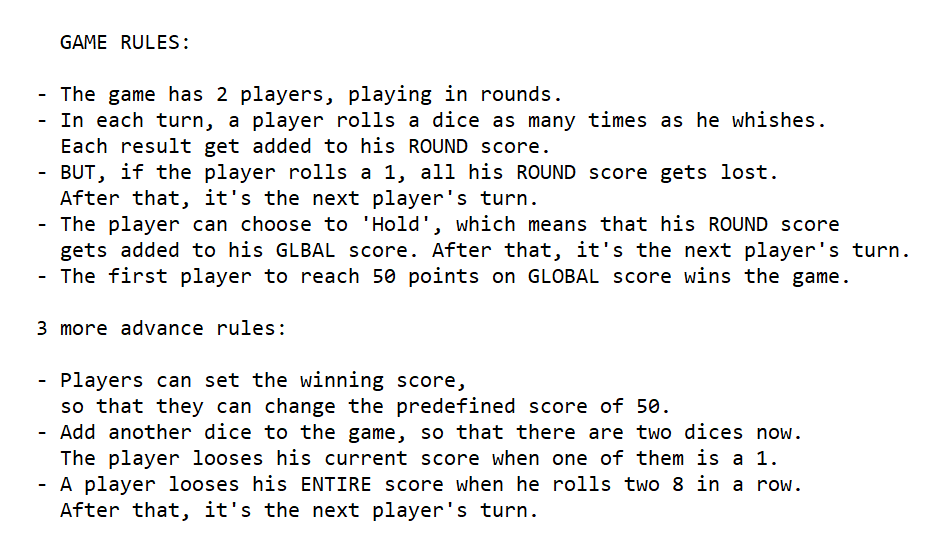
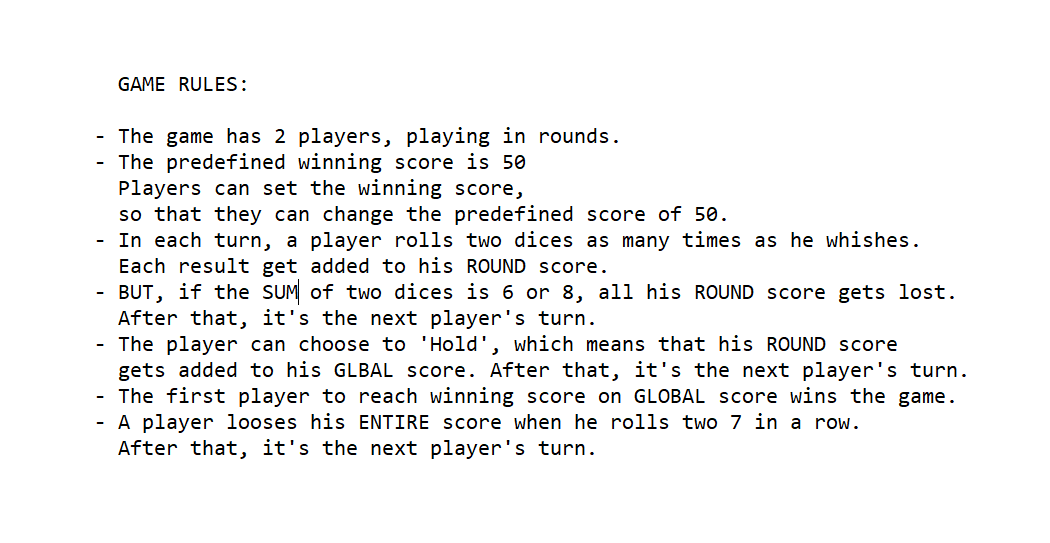
Pig Game

Changed region(s): [[0.0307, 0.1179, 0.9503, 0.9429], [0.0613, 0.0589, 0.2146, 0.0884]]

diff --git a/app.js b/app.js
@@ -42,12 +42,12 @@ document.querySelector('.btn-roll').addEventListener('click', function(){
         document.getElementById('dice-2').src = 'dice-' + dice2 + '.png';
 
         // 3. update the roundScore if the rolled num is not '1'
-        if(sumDice === 8 && lastDice === 8){
+        if(sumDice === 7 && lastDice === 7){
             //player lose all his score
             scores[activePlayer] = 0;
             document.querySelector('#score-' + activePlayer).textContent = '0';
             nextPlayer();
-        } else if(dice1 !== 1 && dice2 !== 1){
+        } else if(sumDice !== 6 && sumDice !== 8){
             // add score
             roundScore += sumDice;
             // DOM manipulation
